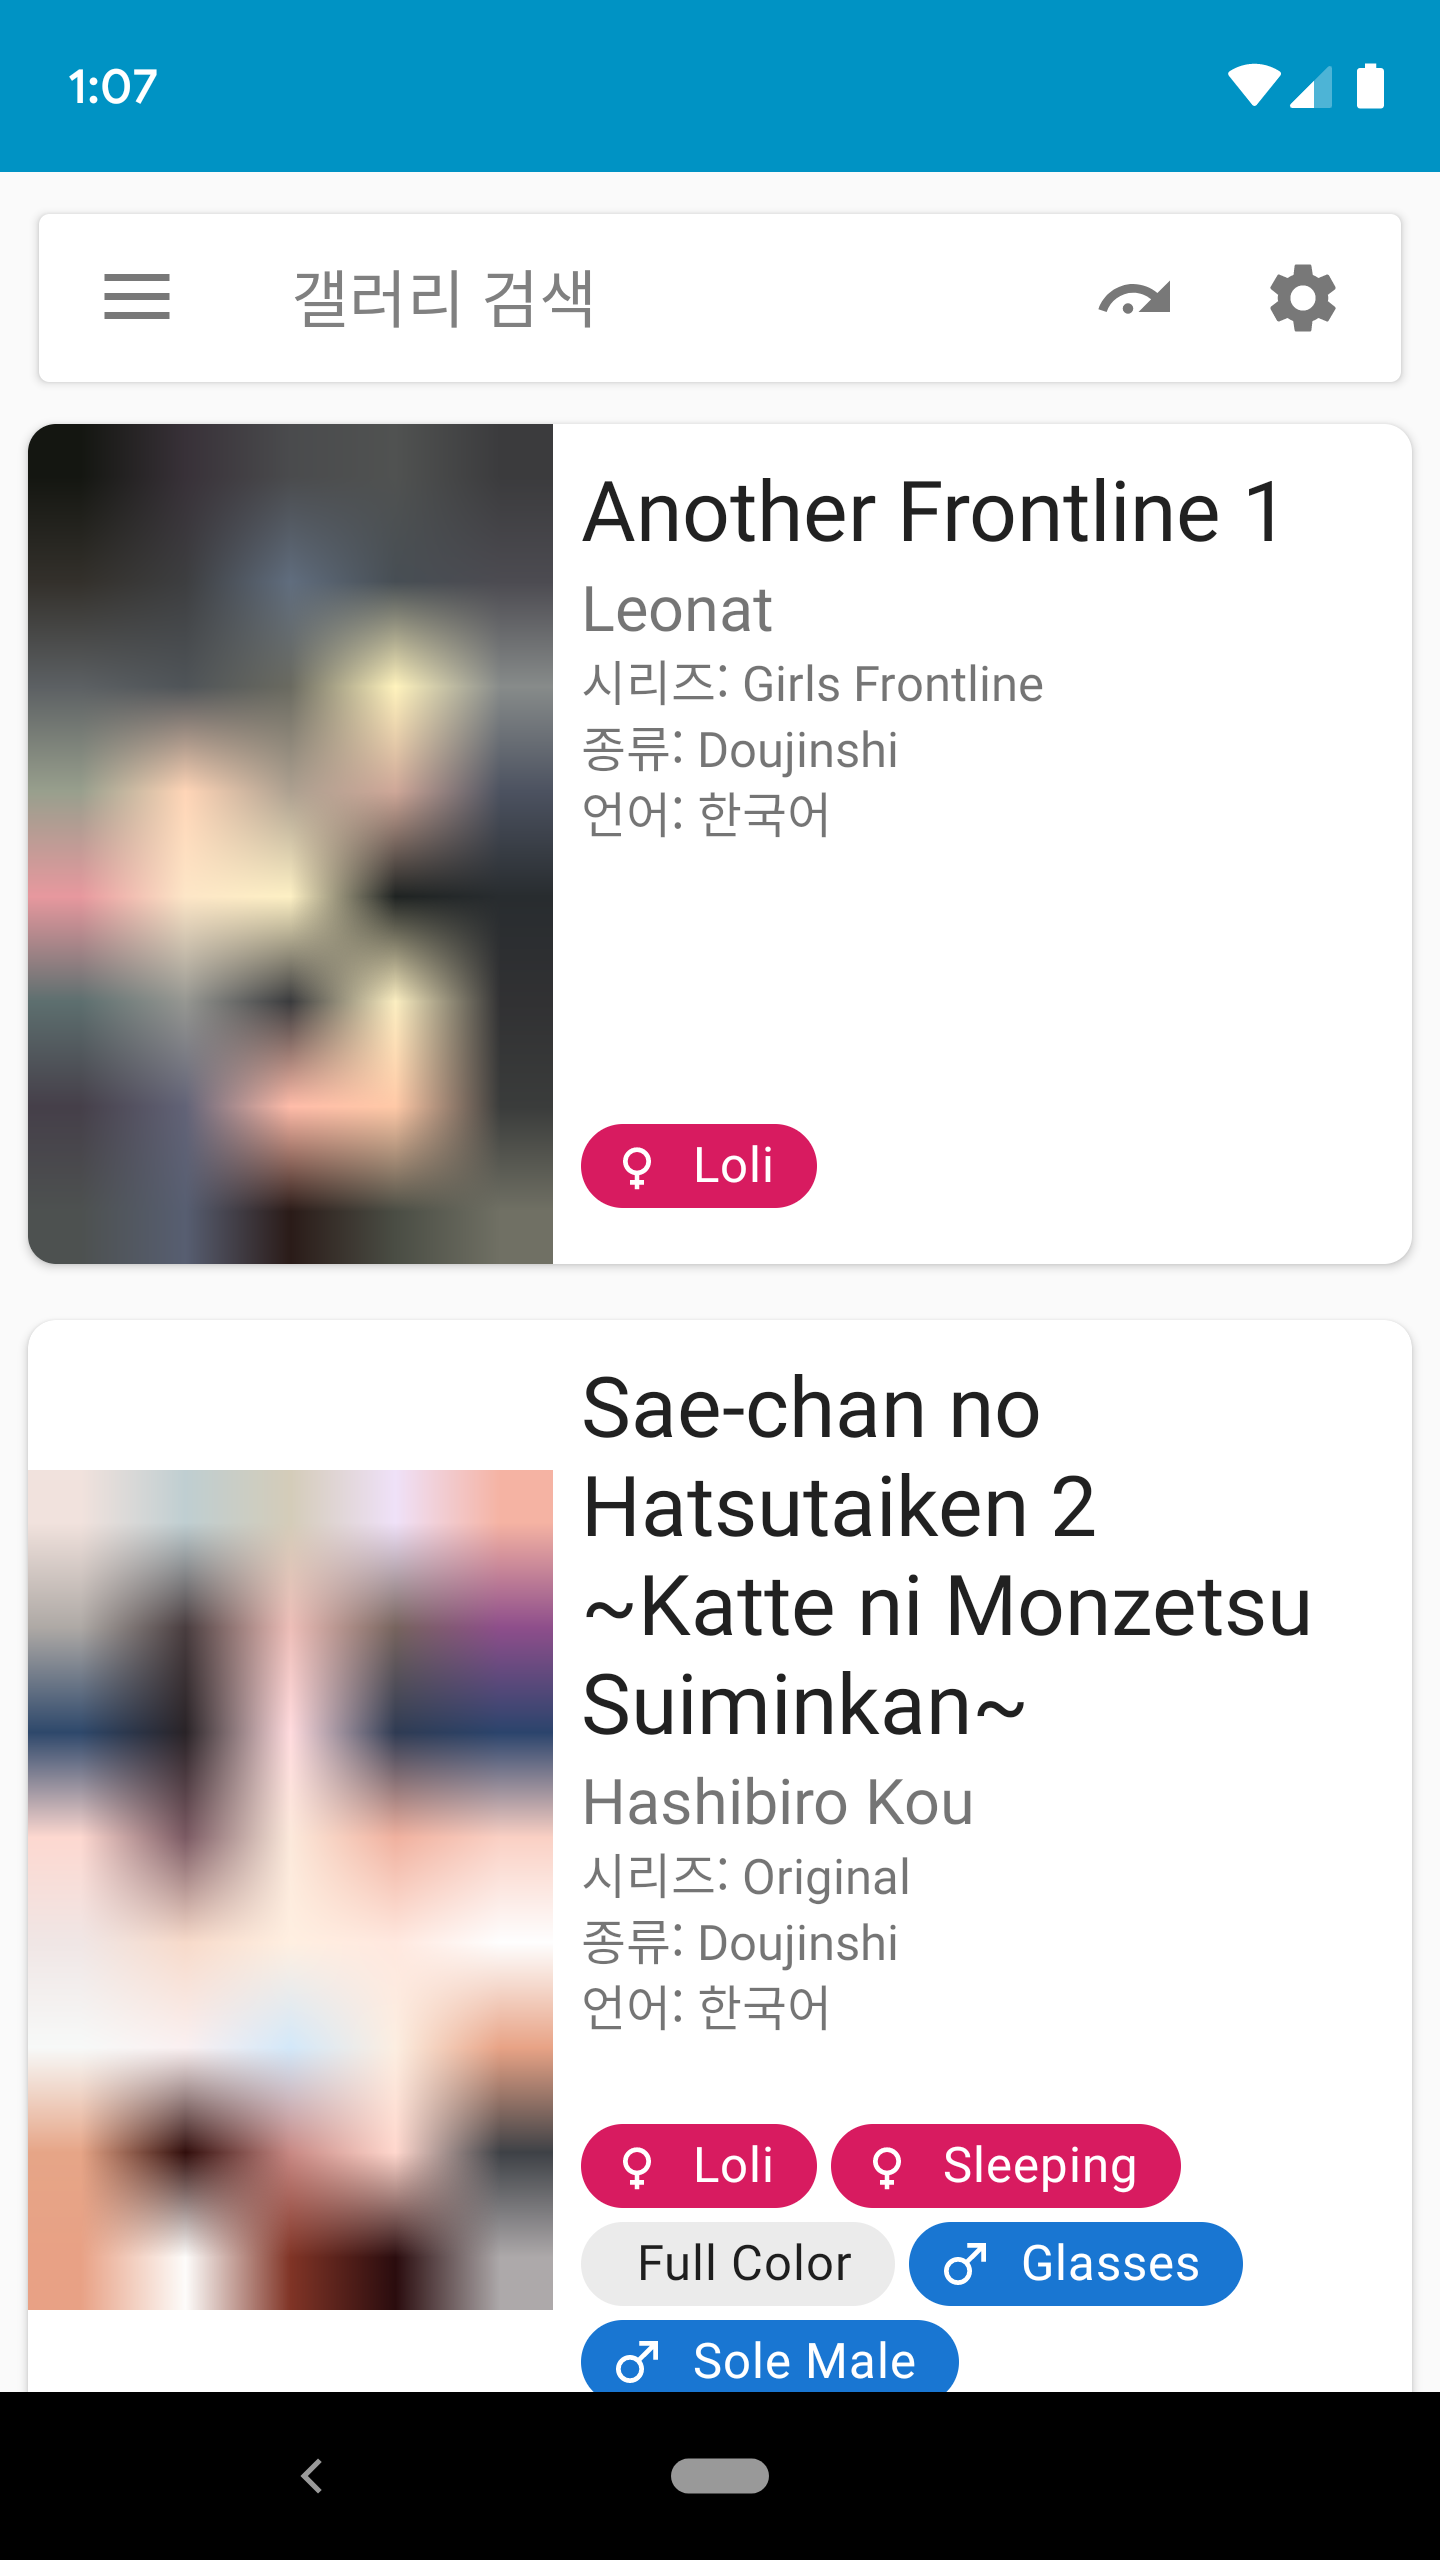
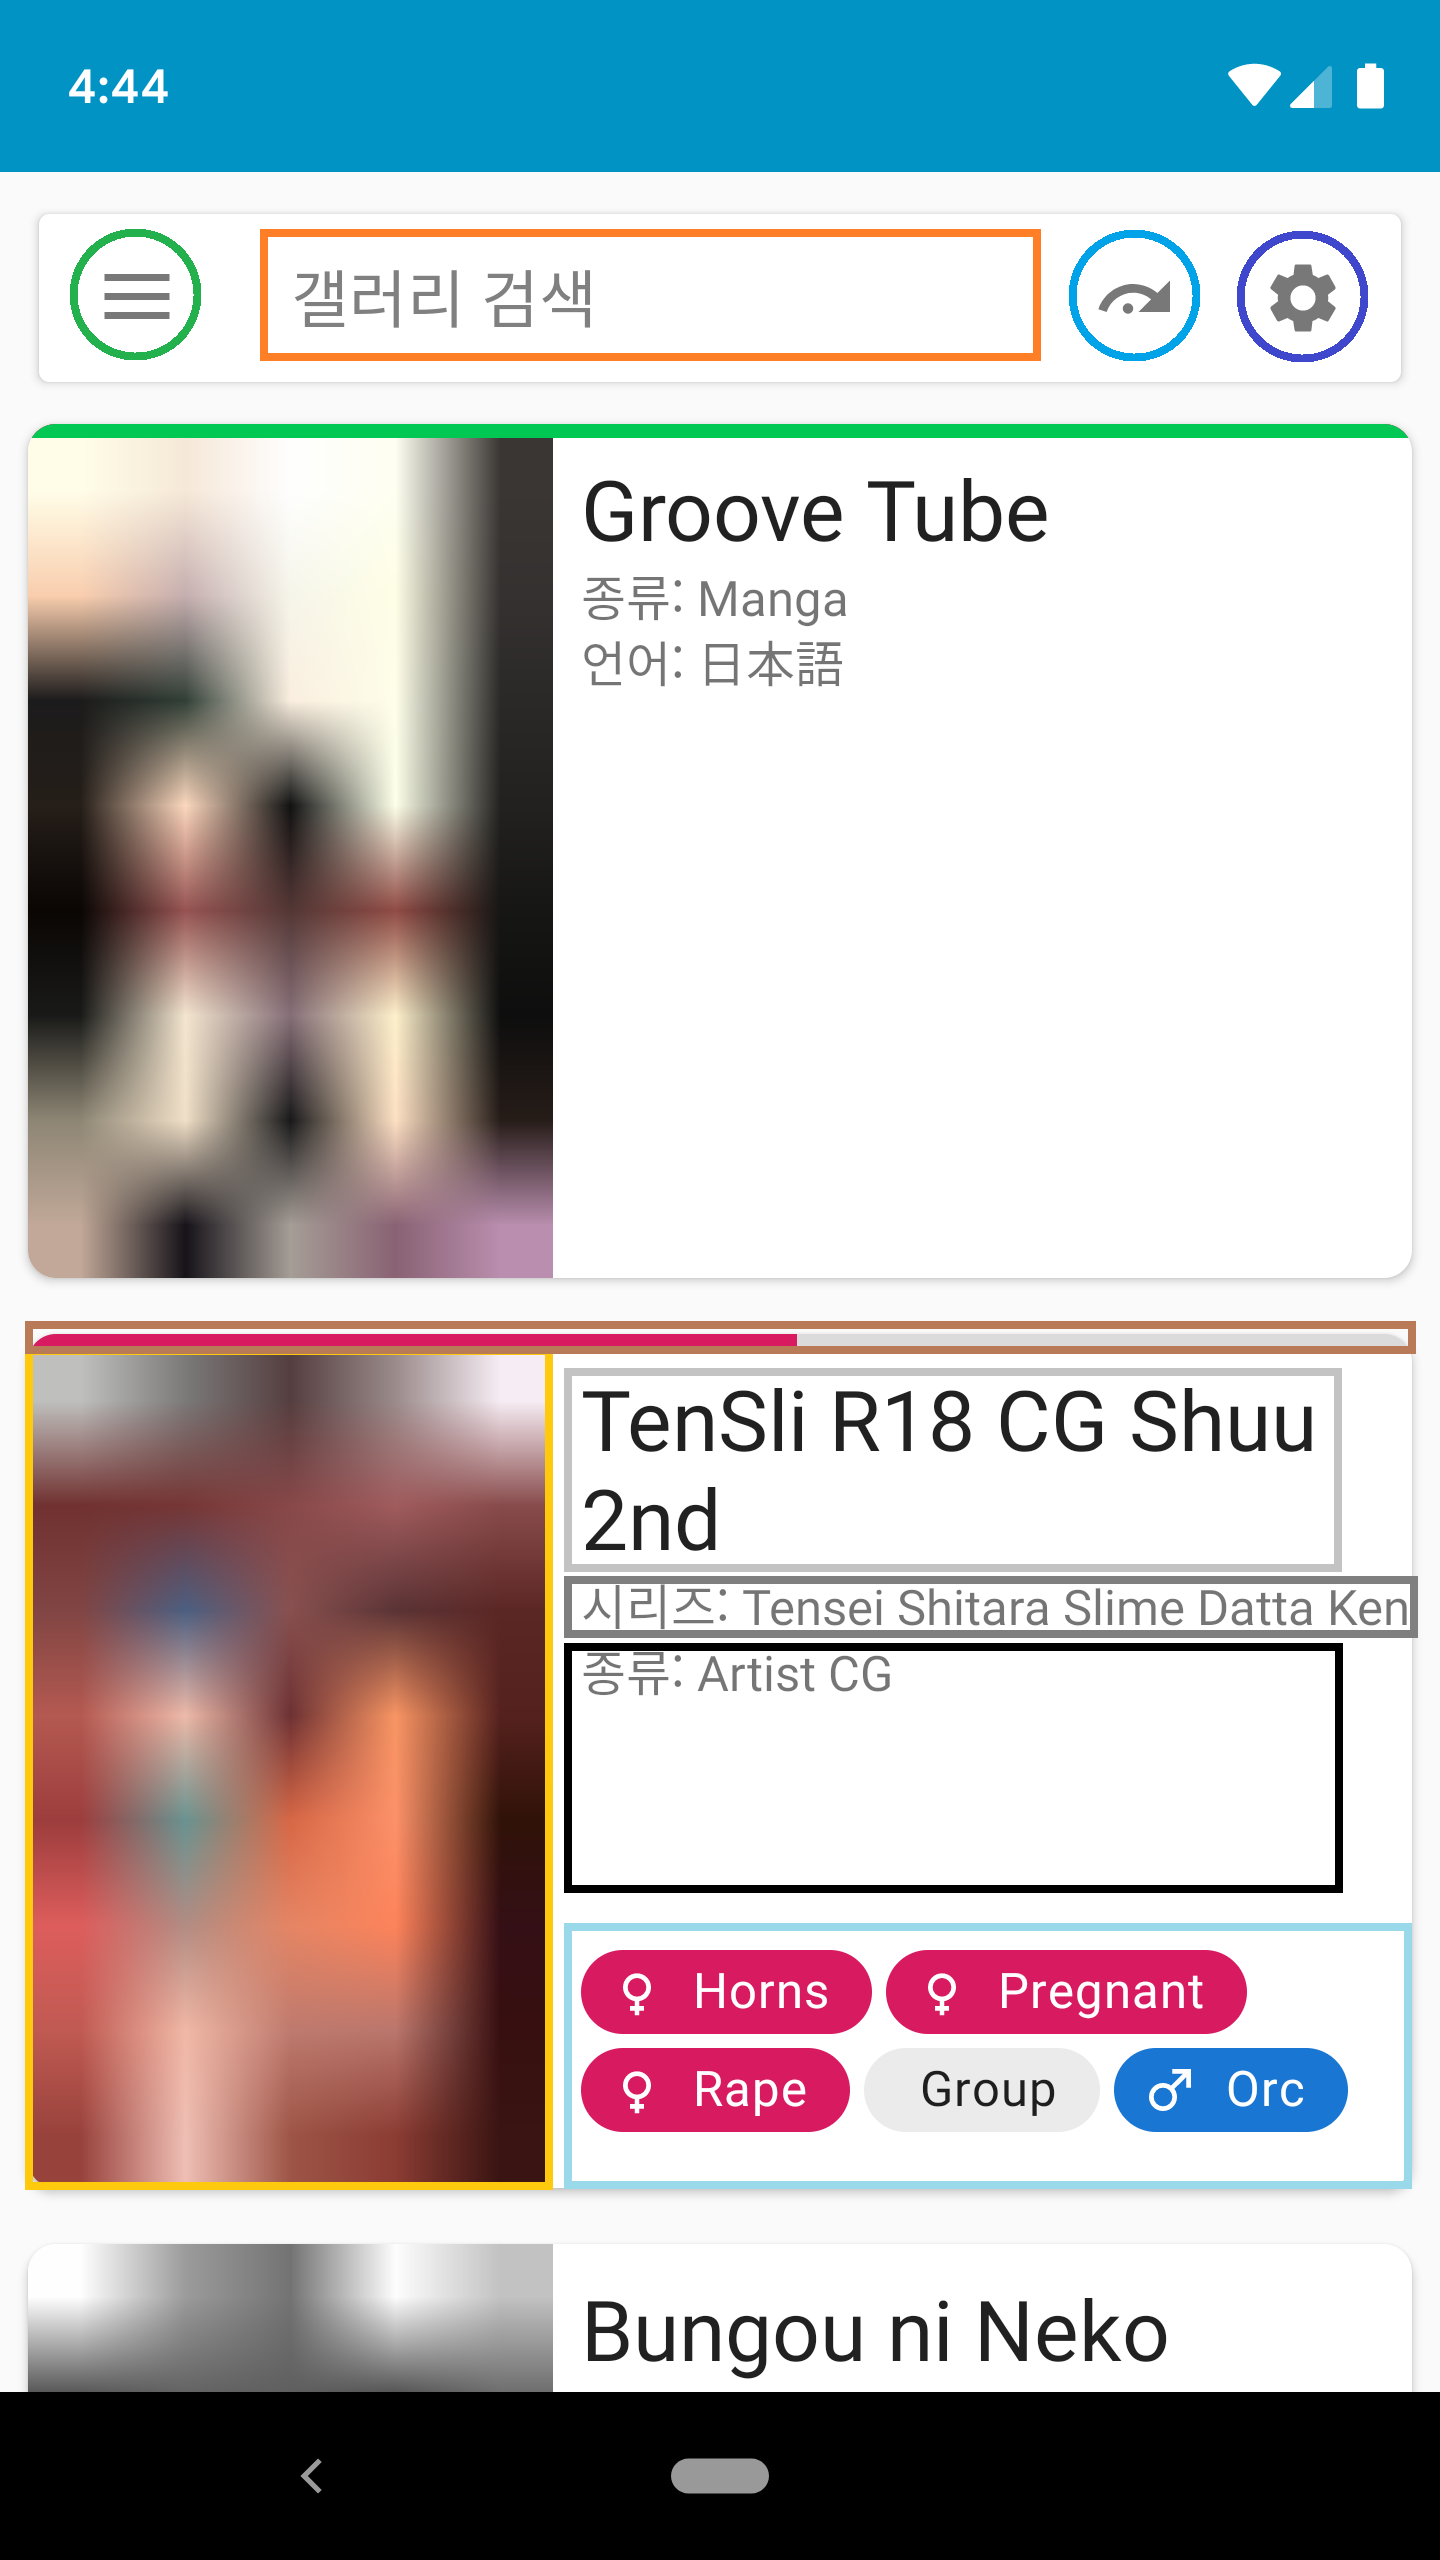
version 2.3

diff --git a/_posts/2019-06-06-manual-kr.md b/_posts/2019-06-06-manual-kr.md
@@ -10,46 +10,62 @@ title: Pupil v2.2 사용 설명서
 
 # 1. 메인 화면
 
-![메인 화면]({{ "assets/images/manual/main-colored.png" | absolute_url }}) 
+![메인 화면]({{ "assets/images/manual/main.png" | absolute_url }})
 
 1. <span style="color:rgb(34,177,76)">사이드 메뉴 열기</span>
 2. <span style="color:rgb(255,127,39)">검색창</span>
 3. <span style="color:rgb(0,162,232)">페이지 이동</span>
 4. <span style="color:rgb(63,72,204)">설정</span>
-5. <span style="color:rgb(255,201,14)">썸네일</span>
-6. <span style="color:rgb(195,195,195)">제목</span>
-7. <span style="color:rgb(127,127,127)">작가</span>
-8. <span style="color:rgb(0,0,0)">갤러리 정보</span>
-9. <span style="color:rgb(153,217,234)">태그</span>
-  - 태그를 누르면 검색됩니다
+5. <span style="color:rgb(185,122,87)">다운로드 상태</span>
+ - 녹색: 다운로드 완료
+ - 적색: 다운로드 중
+ - 없음: 다운로드 안 됨
+6. <span style="color:rgb(255,201,14)">썸네일</span>
+7. <span style="color:rgb(195,195,195)">제목</span>
+8. <span style="color:rgb(127,127,127)">작가</span>
+9. <span style="color:rgb(0,0,0)">갤러리 정보</span>
+10. <span style="color:rgb(153,217,234)">태그</span>
+ - 태그를 누르면 검색됩니다
 
-## 1-1. 페이지 이동
+## 1-1. 검색
+
+검색창에 태그/검색어를 입력하면 검색이 됩니다
+
+![추천 태그]({{ "assets/images/manual/search.png" | absolute_url }})
+
+검색어를 덜 입력하면 추천 태그가 나옵니다
+
+## 1-2. 페이지 이동
 페이지 이동은 볼륨 버튼으로도 가능합니다
 ```
 볼륨 상 -> 이전 페이지
 볼륨 하 -> 다음 페이지
 ```
 
-### 1-1.1. 다음 페이지
-![다음]({{ "assets/images/manual/page-next.gif" | absolute_url }})
+### 1-2.1. 다음 페이지
+![다음]({{ "assets/images/manual/page-next.gif" | absolute_url }})    
 페이지 맨 아래에서 한 번 더 끌어주시면 됩니다
 
-### 1-1.2. 이전 페이지
-![이전]({{ "assets/images/manual/page-prev.gif" | absolute_url }})
+### 1-2.2. 이전 페이지
+![이전]({{ "assets/images/manual/page-prev.gif" | absolute_url }})  
 페이지 맨 위에서 한 번 더 끌어주시면 됩니다
 
 # 2. 뷰어
 
-![뷰어]({{ "assets/images/manual/viewer-colored.png" | absolute_url }})
+![뷰어]({{ "assets/images/manual/viewer.png" | absolute_url }})
 
 1. <span style="color:rgb(0,0,0)">제목</span>
-2. <span style="color:rgb(163,73,164)">페이지 표시</span>
+2. <span style="color:rgb(238,28,36)">hiyobi.me 사용 표시</span>
+ - hiyobi에서 이미지를 불러올 때 표시됩니다
+3. <span style="color:rgb(163,73,164)">페이지 표시</span>
  - 클릭 시 페이지 이동
-3. <span style="color:rgb(255,127,39)">로딩 상태바</span>
+4. <span style="color:rgb(255,127,39)">로딩 상태바</span>
  - 다운로드 완료 시 사라짐
-4. <span style="color:rgb(255,242,0)">백그라운드 다운로드 버튼</span>
+5. <span style="color:rgb(255,201,14)">백그라운드 다운로드 버튼</span>
  - 다운로드 문단에서 자세히
-5. <span style="color:rgb(0,162,232)">전체 화면</span>
+6. <span style="color:rgb(34,177,76)">갤러리 내보내기 버튼</span>
+ - 갤러리 내보내기 문단에서 자세히
+7. <span style="color:rgb(0,162,232)">전체 화면 버튼</span>
 
 ## 2-1. 스크롤 모드
 
